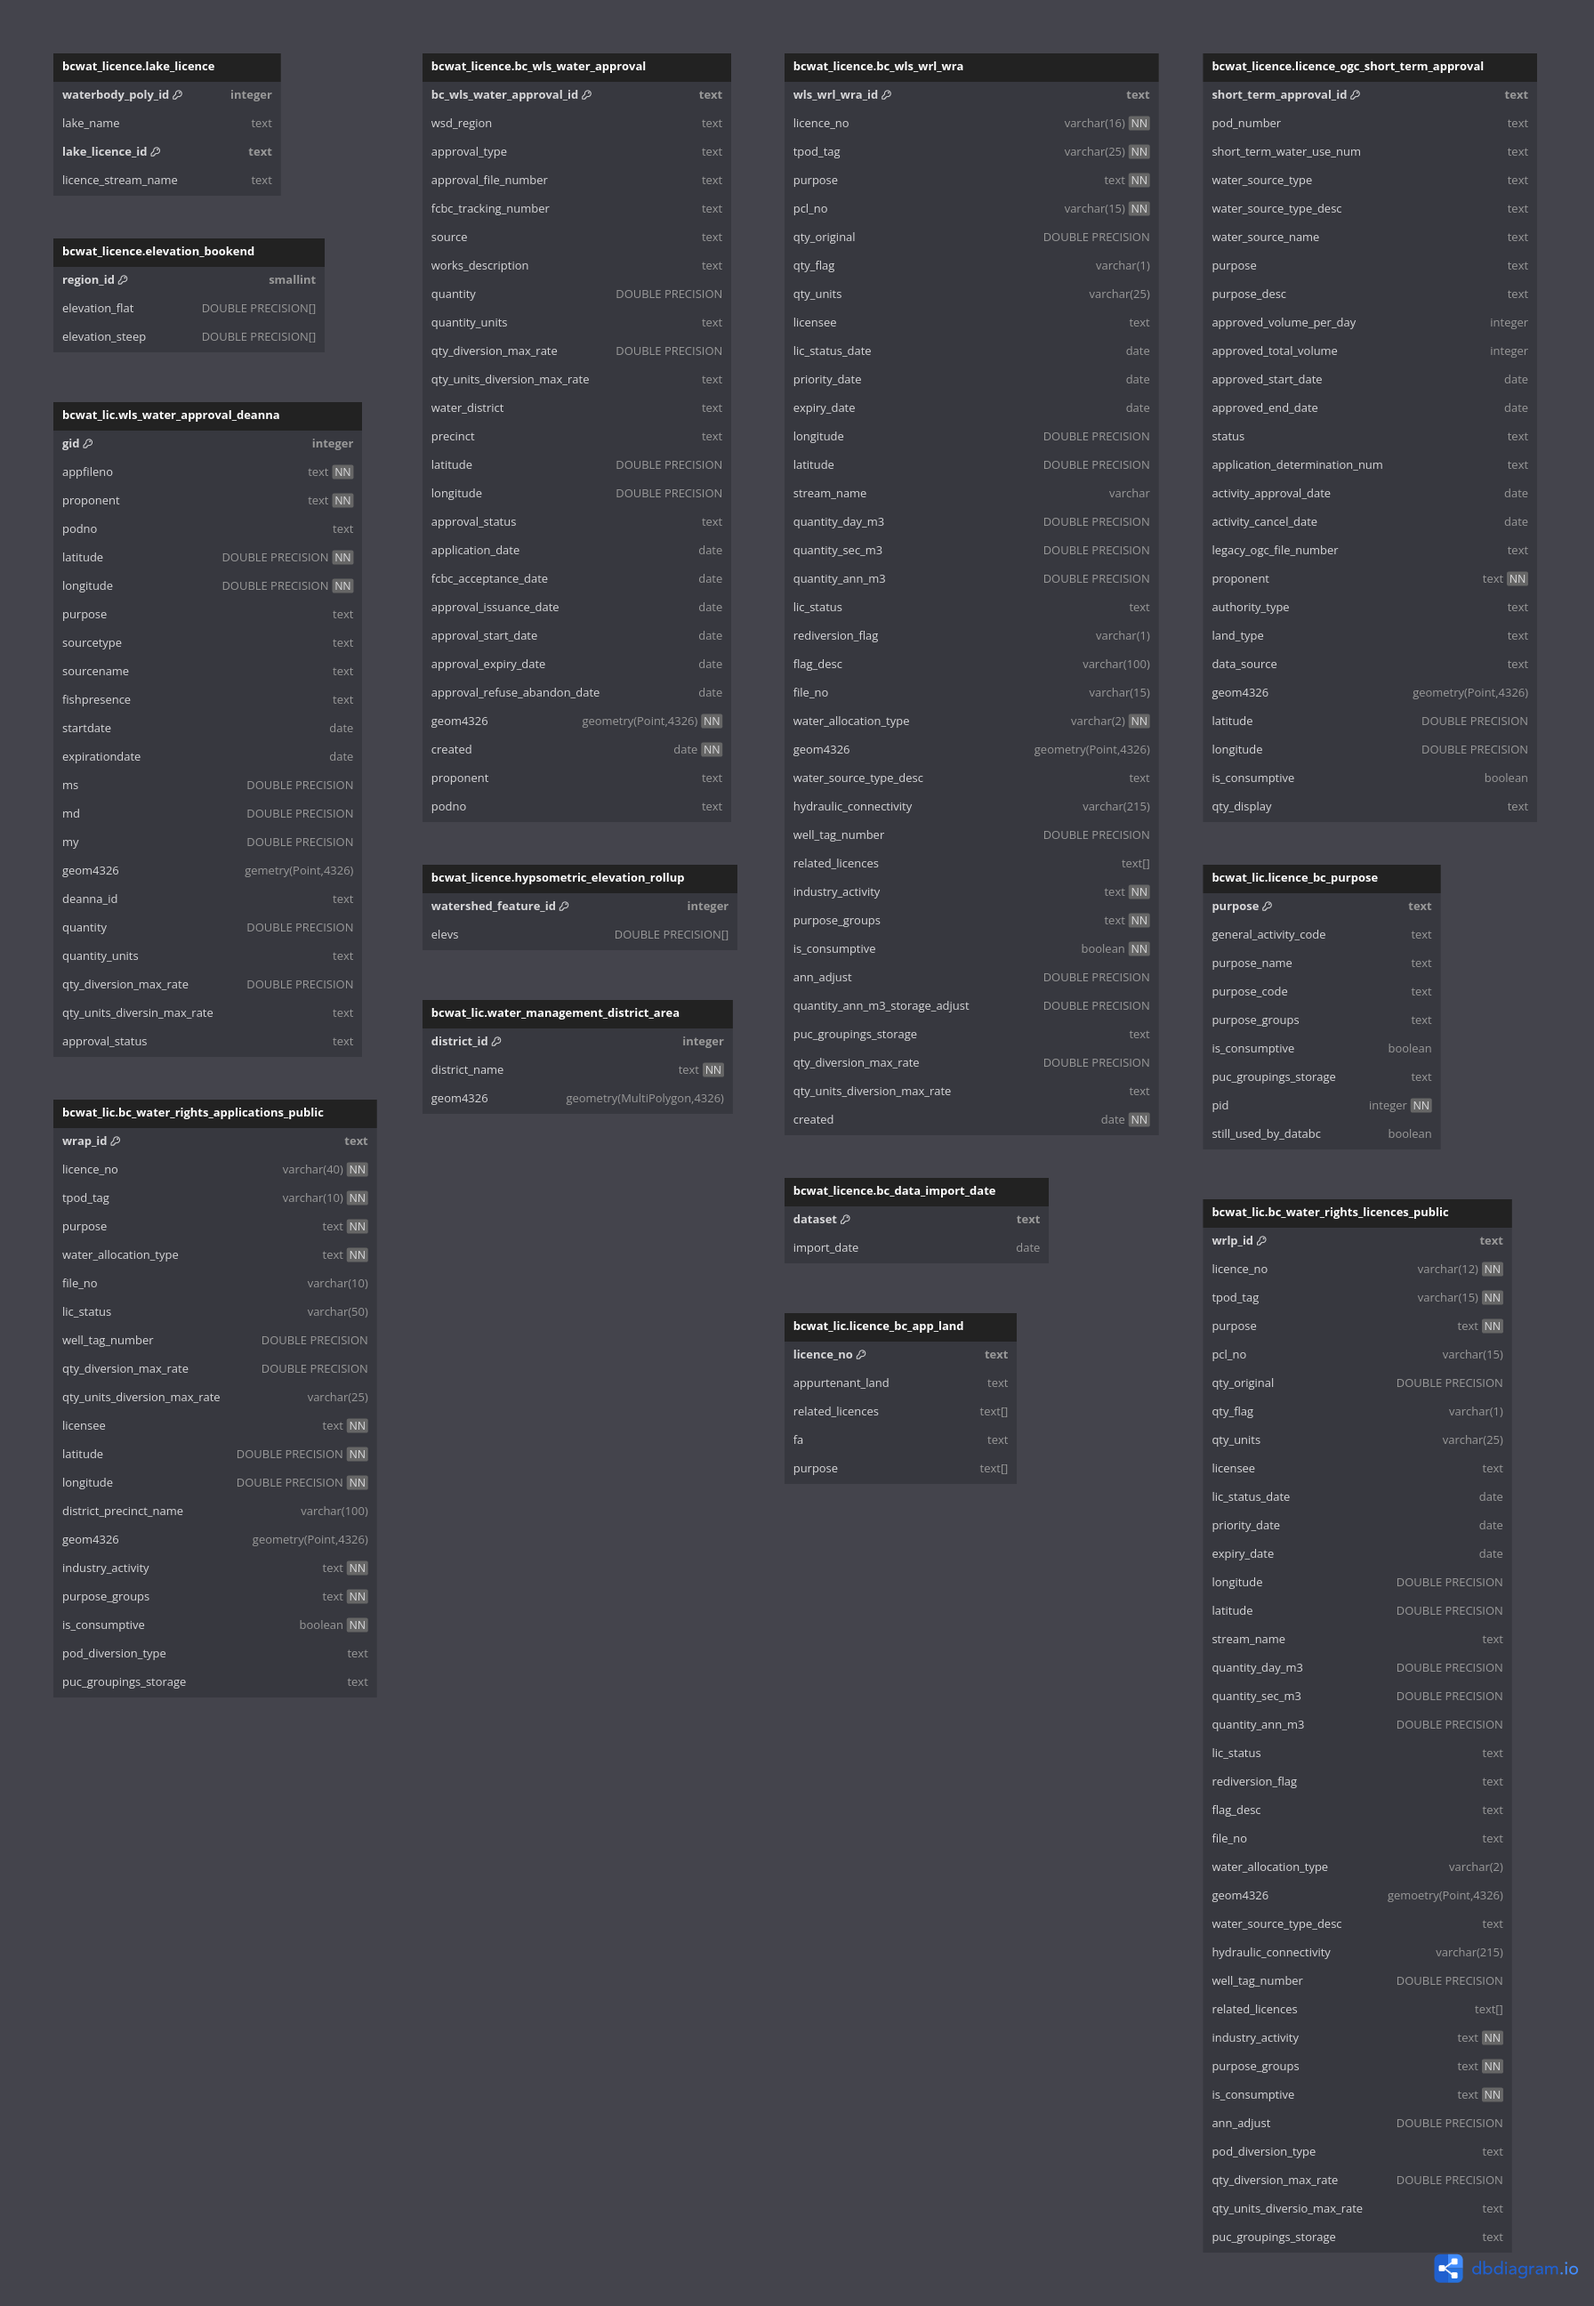
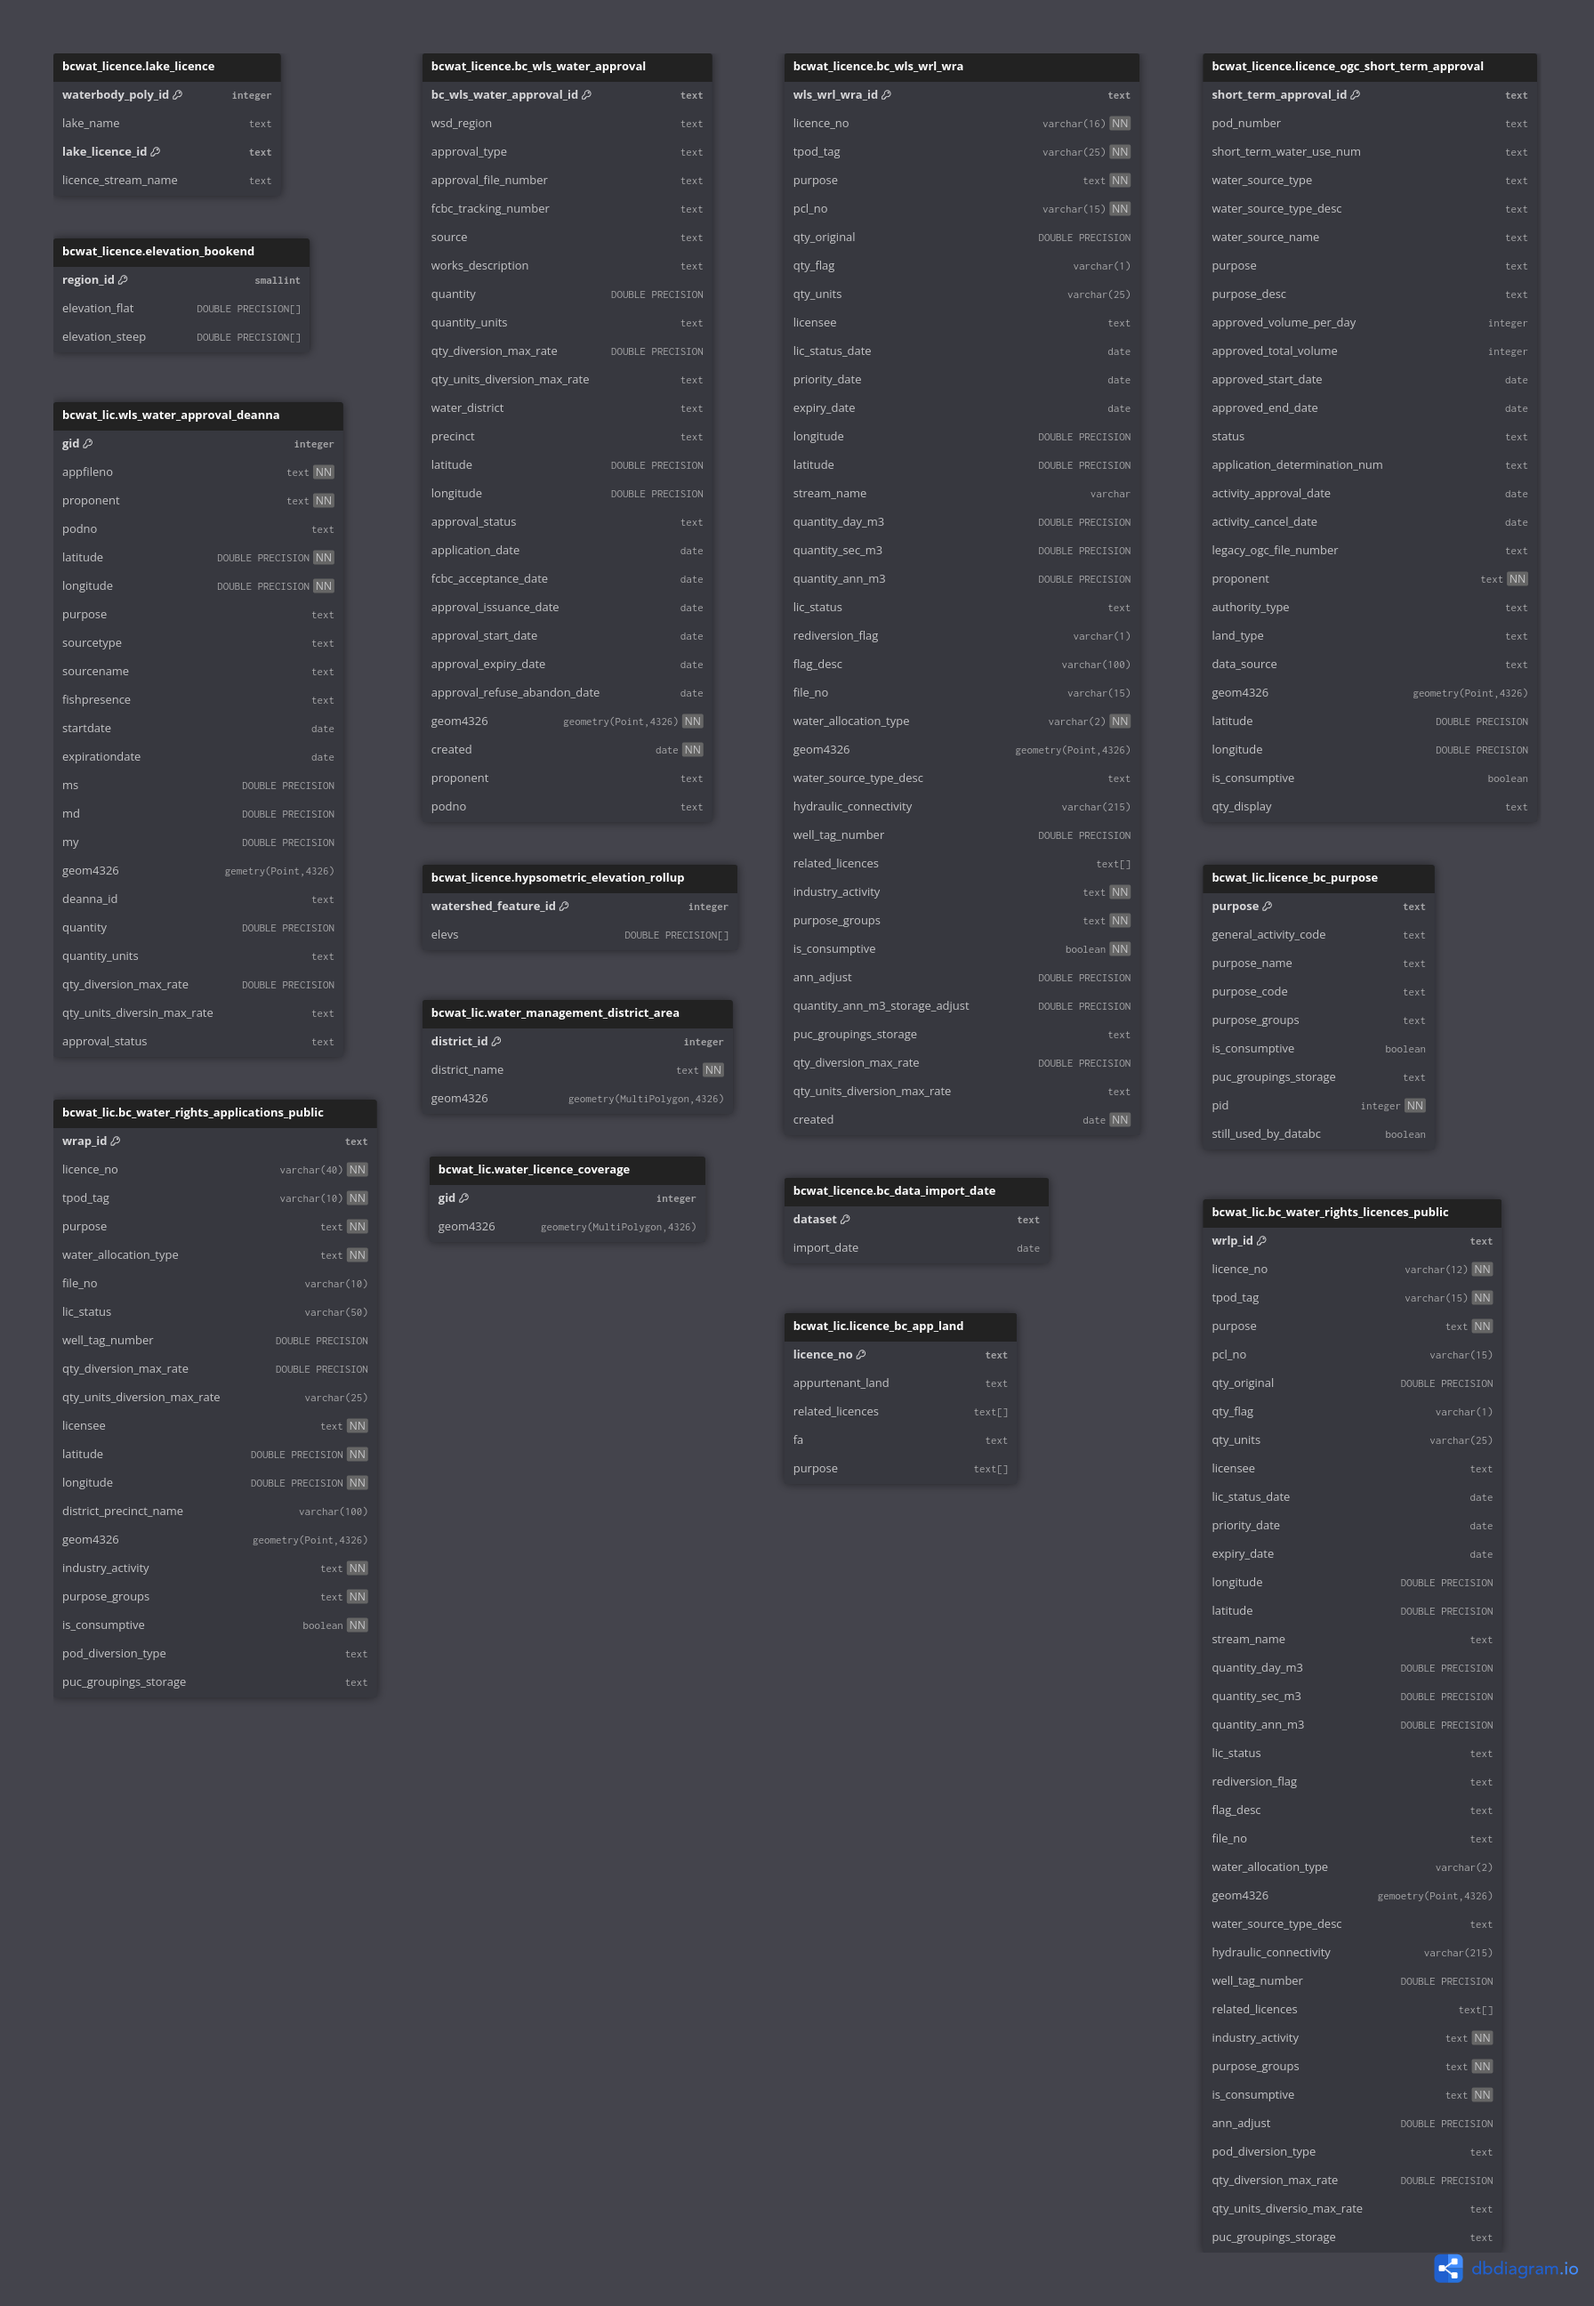
changes for BCWAT-321 finished

diff --git a/database_initialization/constants.py b/database_initialization/constants.py
@@ -65,7 +65,8 @@ from queries.bcwat_licence_data import (
     licence_bc_app_land,
     bc_data_import_date,
     elevation_bookend,
-    lakes_licence_query
+    lakes_licence_query,
+    water_licence_coverage_query
 )
 from table_data_types import(
     variable_dtype,
@@ -120,6 +121,7 @@ from table_data_types import(
     fdc_physical_dtype,
     fdc_distance_dtype,
     fdc_wsc_station_in_model_dtype,
+    water_licence_coverage_dtype
 )
 
 
@@ -178,6 +180,7 @@ bcwat_licence_data = {
     "elevations_bookend":["elevation_bookend", elevation_bookend, "bcwat_lic", "joinless"],
     "lakes_polygon": ["lake", lakes_query, "bcwat_ws", "joinless"],
     "lakes_licences": ["lake_licence", lakes_licence_query, "bcwat_lic", "joinless"],
+    "water_licence_coverage": ["water_licence_coverage", water_licence_coverage_query, "bcwat_lic", "joinless"]
 }
 
 bcwat_watershed_data = {
@@ -249,6 +252,7 @@ data_import_dict_from_s3 = {
     "elevations_bookend":{"tablename": "elevation_bookend", "schema": "bcwat_lic", "needs_join": False, "dtype": elevation_bookend_dtype},
     "lakes_polygon": {"tablename": "lake", "schema": "bcwat_ws", "needs_join": False, "dtype": lake_dtype},
     "lakes_licences": {"tablename": "lake_licence", "schema": "bcwat_lic", "needs_join": False, "dtype": lake_licence_dtype},
+    "water_licence_coverage": {"tablename": "water_licence_coverage", "schema": "bcwat_lic", "needs_join": False, "dtype": water_licence_coverage_dtype},
     "fwa_funds":{"tablename": "fwa_fund", "schema": "bcwat_ws", "needs_join": False, "dtype": fwa_fund_dtype},
     "fwa_union":{"tablename": "fwa_union", "schema": "bcwat_ws", "needs_join": False, "dtype": fwa_union_dtype},
     "funds_rollups_report":{"tablename": "fund_rollup_report", "schema": "bcwat_ws", "needs_join": False, "dtype": fund_rollup_report_dtype},

diff --git a/database_initialization/all_data_transfer.py b/database_initialization/all_data_transfer.py
@@ -99,7 +99,7 @@ def populate_all_tables(insert_dict):
 
         try:
             # This is from the staging database, it's wet. because without the . it would detect wetland as well.
-            if 'wet.' in query or 'water_licences' in query:
+            if 'wet.' in query or 'water_licences' in query or 'public.' in query:
                 logger.info("Setting from connection and cursor to be database with schema wet")
                 from_conn = get_wet_conn()
                 from_cur = from_conn.cursor(name='wet_cur', cursor_factory = RealDictCursor)
@@ -301,7 +301,7 @@ def create_csv_files():
             query = data_dict[key][1]
 
             try:
-                if 'wet.' in query or 'water_licences' in query:
+                if 'wet.' in query or 'water_licences' in query or "public." in query:
                     logger.info("Setting from connection and cursor to be database with schema wet")
                     from_conn = get_wet_conn()
                     from_cur = from_conn.cursor()

diff --git a/database_initialization/queries/post_import_queries.py b/database_initialization/queries/post_import_queries.py
@@ -61,11 +61,6 @@ ALTER TABLE IF EXISTS "bcwat_obs"."station" DROP COLUMN IF EXISTS "old_station_i
                 ST_Buffer((SELECT region_click_studyarea FROM bcwat_obs.region WHERE region_id = 5), 0.0015)
             ) AS geom4326;
 
-    INSERT INTO bcwat_obs.station_variable(station_id, variable_id)
-        SELECT station_id, 1 AS variable_id FROM bcwat_obs.station WHERE original_id = '08HB0012'
-        UNION
-        SELECT station_id, 2 AS variable_id FROM bcwat_obs.station WHERE original_id = '08HB0012';
-
 -- SET SEQUENCES TO CORRECT VALUE --
     SELECT
 	    setval('bcwat_obs.water_quality_unit_unit_id_seq', (SELECT MAX(unit_id) FROM bcwat_obs.water_quality_unit));

diff --git a/database_initialization/queries/bcwat_licence_erd_diagram.py b/database_initialization/queries/bcwat_licence_erd_diagram.py
@@ -239,6 +239,13 @@ CREATE TABLE IF NOT EXISTS "bcwat_lic"."bc_water_rights_applications_public"
     CONSTRAINT bc_wls_wra_pkey PRIMARY KEY (wrap_id)
 );
 
+CREATE TABLE IF NOT EXISTS "bcwat_lic"."water_licence_coverage"
+(
+    gid INTEGER,
+    geom4326 geometry(MultiPolygon,4326),
+    CONSTRAINT water_licence_coverage_pkey PRIMARY KEY (gid)
+);
+
     -- COMMENTS --
 
     COMMENT ON SCHEMA "bcwat_lic" IS 'The full name of this schema is bcwat_licence. This is where all the DataBC water licencing data gets scraped to and served to the frontend.';

diff --git a/database_initialization/queries/bcwat_licence_data.py b/database_initialization/queries/bcwat_licence_data.py
@@ -235,3 +235,11 @@ lakes_licence_query = """
         licence_stream_name
     FROM kwt.lakes_licence
 """
+
+water_licence_coverage_query = """
+    SELECT
+        gid,
+        St_AsGeoJSON(geom4326) AS geom4326
+    FROM
+        public.water_licence_coverage
+"""

diff --git a/database_initialization/table_data_types.py b/database_initialization/table_data_types.py
@@ -493,3 +493,8 @@ fdc_wsc_station_in_model_dtype = {
     "wfi_fake": pl.Int128,
     "geom4326": pl.String
 }
+
+water_licence_coverage_dtype = {
+    "gid": pl.Int8,
+    "geom4326": pl.String
+}
